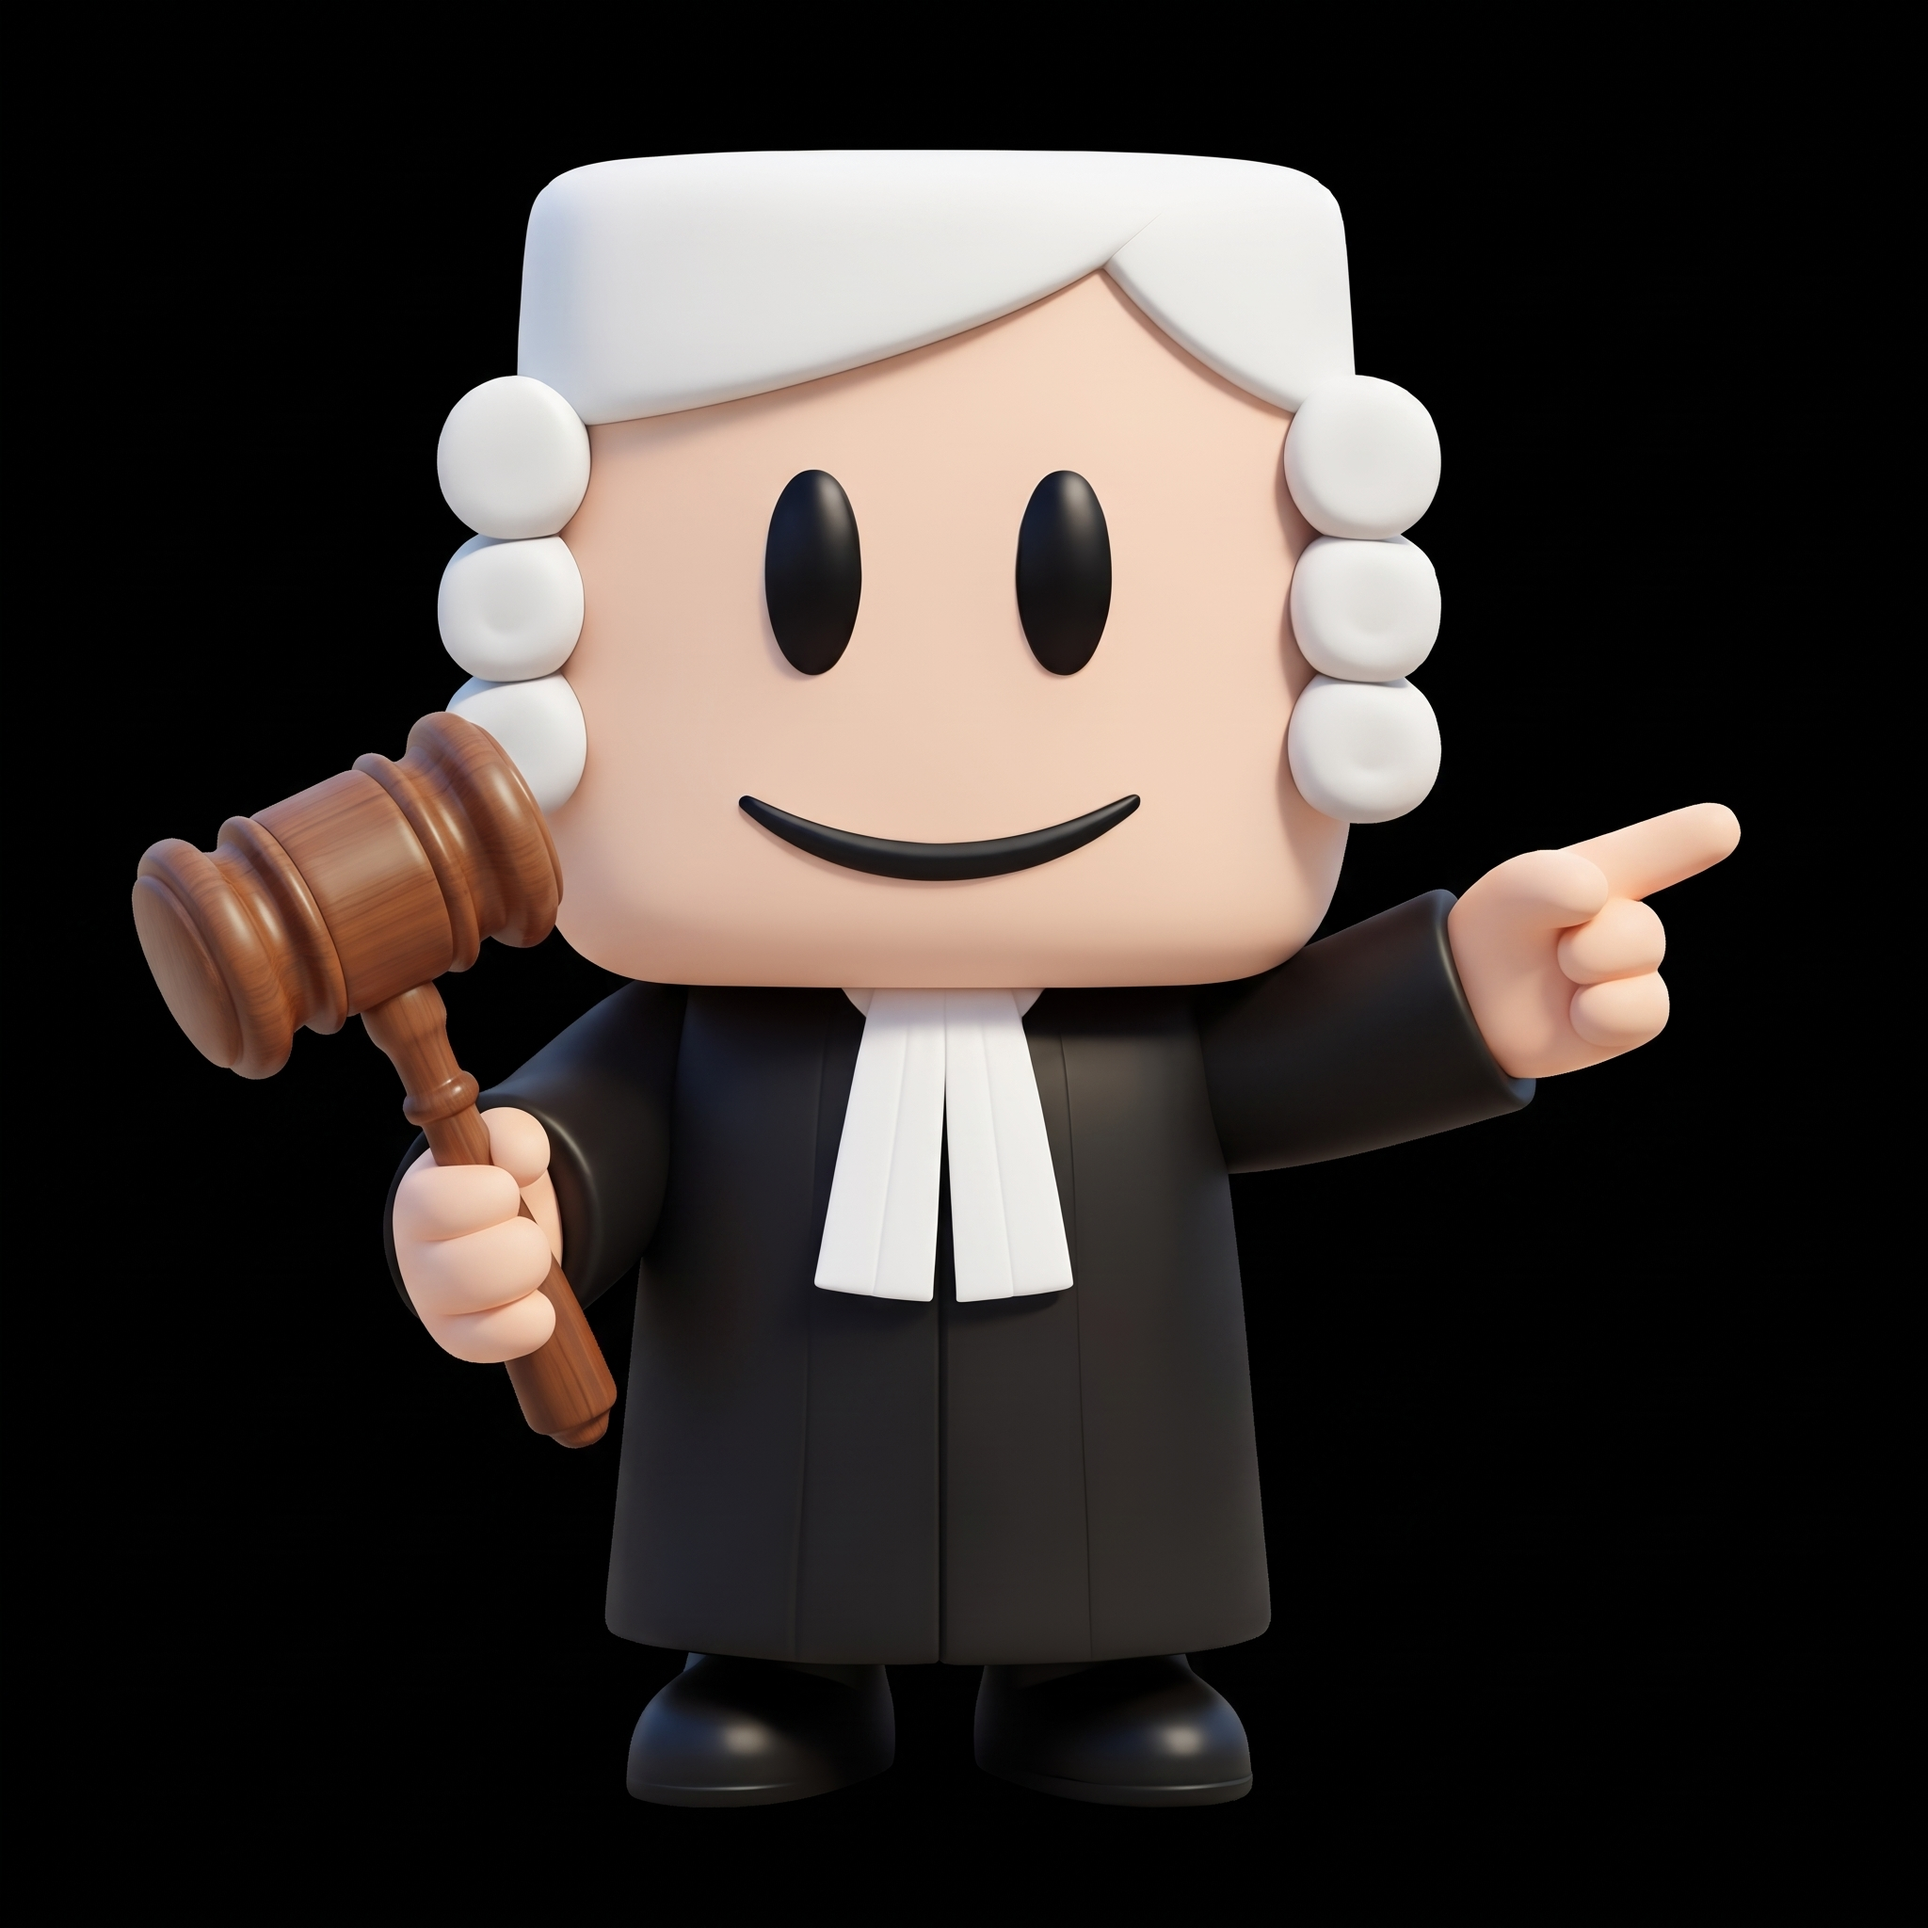
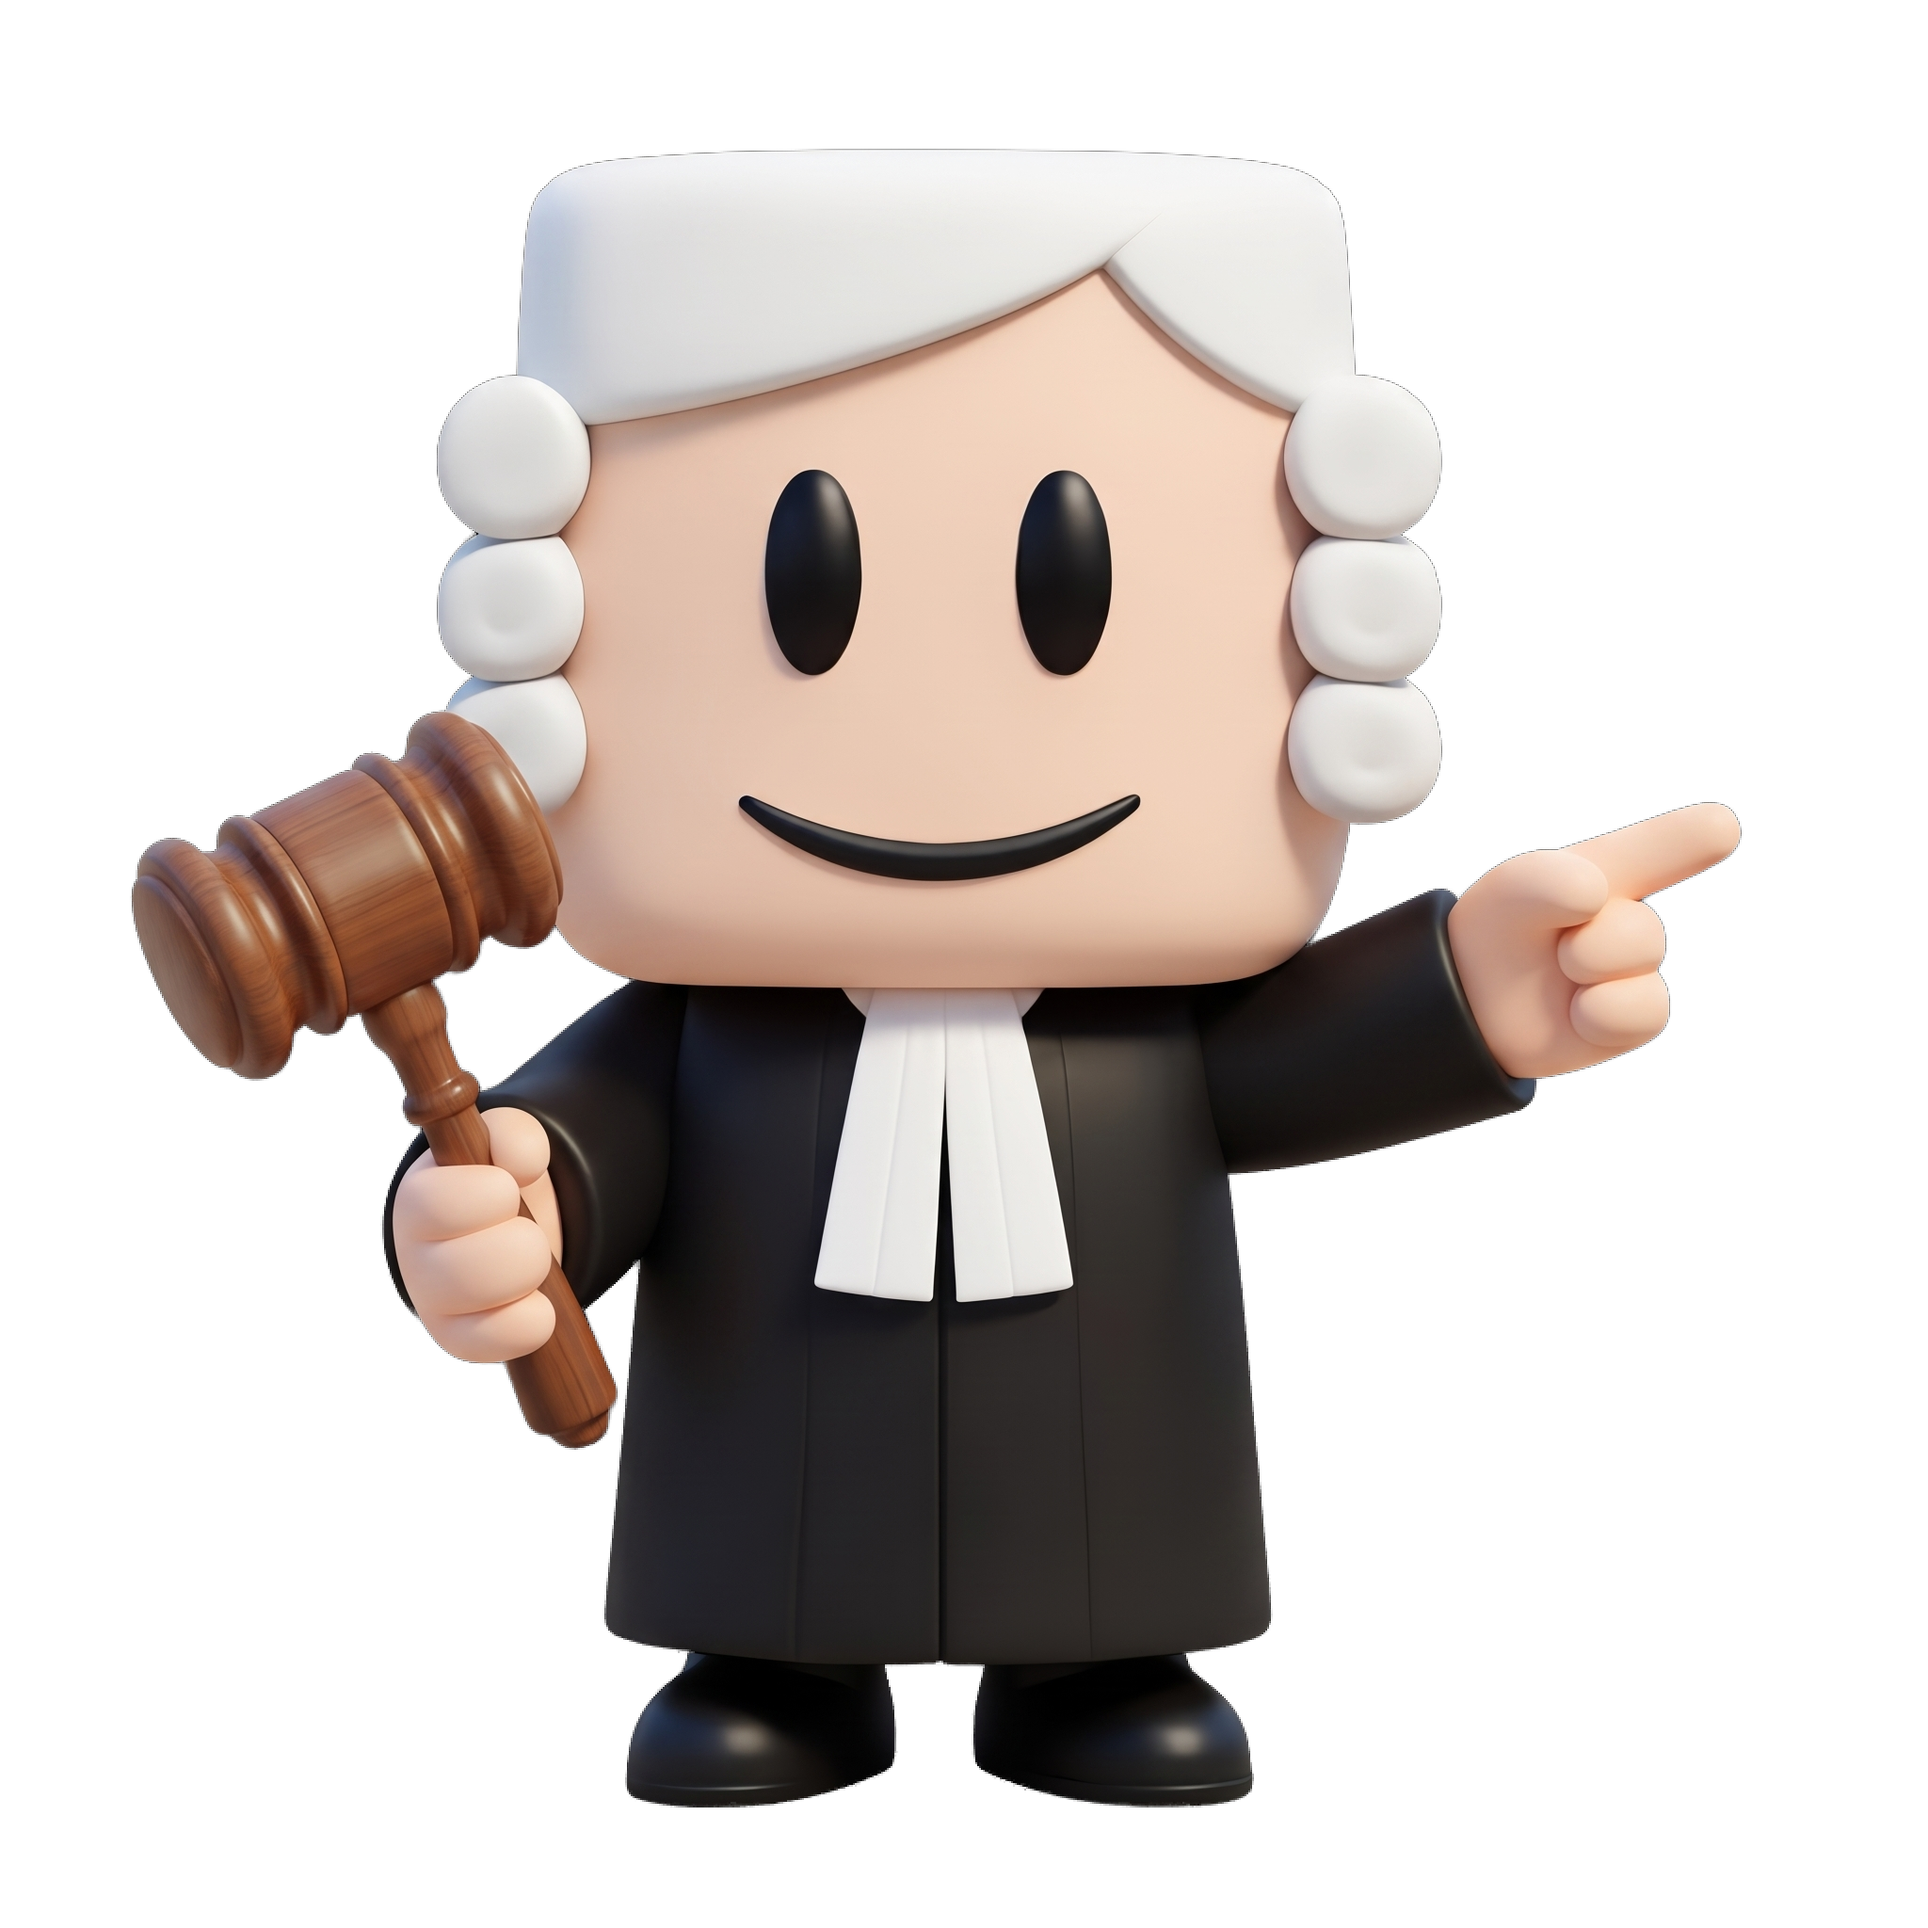
Improve exam sign in

diff --git a/components/live/LiveHome.tsx b/components/live/LiveHome.tsx
@@ -2,6 +2,7 @@
 
 import {
     CrownIcon,
+    DoorOpenIcon,
     EyeIcon,
     GraduationCapIcon,
     LogInIcon,
@@ -11,7 +12,7 @@ import {
 } from 'lucide-react'
 import Image from 'next/image'
 import { useRouter } from 'next/navigation'
-import { useEffect, useState } from 'react'
+import { type ReactNode, useEffect, useState } from 'react'
 
 import { LiveDashboard } from '@/components/live/LiveDashboard'
 import { ApiStatusCard } from '@/components/live/ApiStatusCard'
@@ -23,7 +24,7 @@ import SmoothButton from '@/components/smoothui/smooth-button'
 import { useAppearancePreferences } from '@/components/AppearancePreferencesProvider'
 import { useSiteMode } from '@/components/SiteModeProvider'
 import { Button } from '@/components/ui/button'
-import { Card, CardContent } from '@/components/ui/card'
+import { Card, CardContent, CardHeader, CardTitle } from '@/components/ui/card'
 import { Input } from '@/components/ui/input'
 import { Label } from '@/components/ui/label'
 import { Select, SelectContent, SelectItem, SelectTrigger, SelectValue } from '@/components/ui/select'
@@ -54,25 +55,15 @@ export function LiveHome() {
 }
 
 function ExamHome() {
+    const session = useLiveSession()
+    const inPreExam = session.phase === 'pre-exam'
+
     return (
-        <LivePage className="min-h-0 flex-1">
-            <div className="flex justify-center">
-                <Image
-                    alt="Exam on Jutge.org"
-                    className="h-auto w-96 max-w-full"
-                    height={384}
-                    priority
-                    src="/jutge/exam.png"
-                    width={384}
-                />
-            </div>
-            <Card className="w-full border border-border shadow-sm ring-0">
-                <CardContent className="flex justify-center p-5">
-                    <div className="flex w-full max-w-md flex-col gap-4">
-                        <LiveSignIn contest={false} polished className="w-full text-left" />
-                    </div>
-                </CardContent>
-            </Card>
+        <LivePage className={cn('min-h-0 flex-1', inPreExam && 'pt-24')}>
+            {inPreExam ? null : <LiveArenaHeroImage contest={false} />}
+            <LiveSignInCardShell contest={false} inPreExam={inPreExam}>
+                <LiveSignIn contest={false} polished className="w-full text-left" />
+            </LiveSignInCardShell>
             <ApiStatusCard className="mt-auto shrink-0" />
         </LivePage>
     )
@@ -80,21 +71,14 @@ function ExamHome() {
 
 function ContestHome() {
     const [tab, setTab] = useState<ContestTabId>('arena')
+    const session = useLiveSession()
+    const inPreExam = session.phase === 'pre-exam'
     const { reducedMotion } = useAppearancePreferences()
     const motionReduced = isMotionReduced(reducedMotion)
 
     return (
-        <LivePage className="min-h-0 flex-1">
-            <div className="flex justify-center">
-                <Image
-                    alt="Contest on Jutge.org"
-                    className={cn('h-auto w-96 max-w-full', !motionReduced && 'hover:animate-pulse')}
-                    height={384}
-                    priority
-                    src="/jutge/contest.png"
-                    width={384}
-                />
-            </div>
+        <LivePage className={cn('min-h-0 flex-1', inPreExam && 'pt-10')}>
+            {inPreExam ? null : <LiveArenaHeroImage contest motionReduced={motionReduced} />}
             <AnimatedTabs
                 activeTab={tab}
                 className="flex w-full"
@@ -110,13 +94,9 @@ function ContestHome() {
                 id={`${CONTEST_TABS_LAYOUT_ID}-panel-arena`}
                 role="tabpanel"
             >
-                <Card className="w-full border border-border shadow-sm ring-0">
-                    <CardContent className="flex justify-center p-5">
-                        <div className="flex w-full max-w-md flex-col gap-4">
-                            <LiveSignIn contest className="w-full text-left" />
-                        </div>
-                    </CardContent>
-                </Card>
+                <LiveSignInCardShell contest inPreExam={inPreExam}>
+                    <LiveSignIn contest className="w-full text-left" />
+                </LiveSignInCardShell>
             </div>
             <div
                 aria-labelledby={`${CONTEST_TABS_LAYOUT_ID}-tab-lounge`}
@@ -136,6 +116,73 @@ function ContestHome() {
     )
 }
 
+function LiveArenaHeroImage({
+    contest,
+    motionReduced = false,
+}: {
+    contest: boolean
+    motionReduced?: boolean
+}) {
+    return (
+        <div className="flex justify-center">
+            <Image
+                alt={contest ? 'Contest on Jutge.org' : 'Exam on Jutge.org'}
+                className={cn(
+                    'h-auto w-96 max-w-full',
+                    contest && !motionReduced && 'hover:animate-pulse',
+                )}
+                height={384}
+                priority
+                src={contest ? '/jutge/contest.png' : '/jutge/exam.png'}
+                width={384}
+            />
+        </div>
+    )
+}
+
+function LiveSignInCardShell({
+    contest,
+    inPreExam,
+    children,
+}: {
+    contest: boolean
+    inPreExam: boolean
+    children: ReactNode
+}) {
+    const card = (
+        <Card className="w-full border border-border shadow-sm ring-0">
+            {inPreExam ? (
+                <CardHeader className="border-b">
+                    <CardTitle className="w-full justify-center text-center">
+                        {contest ? 'Select contest' : 'Select exam'}
+                    </CardTitle>
+                </CardHeader>
+            ) : null}
+            <CardContent className="flex justify-center p-5">
+                <div className="flex w-full max-w-md flex-col gap-4">{children}</div>
+            </CardContent>
+        </Card>
+    )
+
+    if (!inPreExam) return card
+
+    return (
+        <div className="flex w-full flex-col items-center gap-6 md:flex-row md:items-start md:justify-center">
+            <div className="flex shrink-0 justify-center">
+                <Image
+                    alt="Select an exam or contest on Jutge.org"
+                    className="h-auto w-96 max-w-full"
+                    height={384}
+                    priority
+                    src="/jutge/select-exam.png"
+                    width={384}
+                />
+            </div>
+            <div className="w-full md:max-w-md">{card}</div>
+        </div>
+    )
+}
+
 function LiveSignIn({
     contest,
     polished = false,
@@ -146,6 +193,7 @@ function LiveSignIn({
     className?: string
 }) {
     const arenaStyle = contest || polished
+    const enterLabel = contest ? 'Enter contest' : 'Enter exam'
     const session = useLiveSession()
     const router = useRouter()
     const inPreExam = session.phase === 'pre-exam'
@@ -229,16 +277,21 @@ function LiveSignIn({
             >
                 <div className="flex flex-col gap-2">
                     {inPreExam ? (
-                        <p className="text-sm" id="live-greeting">
-                            Hello {session.name ?? email}{' '}
-                            <span className="inline-flex items-center gap-0.5 text-muted-foreground">
-                                ({email})
-                                <LiveAccountRoleIcons
-                                    administrator={session.administrator}
-                                    instructor={session.instructor}
-                                />
-                            </span>
-                        </p>
+                        <>
+                            <p className="text-sm" id="live-greeting">
+                                Welcome&nbsp;
+                                <span className="font-bold">{session.name ?? email}</span>.
+                                <span className="inline-flex items-center gap-0.5 text-muted-foreground">
+                                    <LiveAccountRoleIcons
+                                        administrator={session.administrator}
+                                        instructor={session.instructor}
+                                    />
+                                </span>
+                            </p>
+                            <p className="text-sm" id="live-greeting">
+                                Select your exam and enter its password.
+                            </p>
+                        </>
                     ) : (
                         <>
                             <Label htmlFor="live-email">Email</Label>
@@ -270,7 +323,7 @@ function LiveSignIn({
                 ) : null}
                 {inPreExam && readyExams ? (
                     <>
-                        <div className="flex flex-col gap-2">
+                        <div className="mt-2 flex flex-col gap-2">
                             <div className="relative pr-8">
                                 <Label htmlFor="live-exam">
                                     {contest ? 'Contest' : 'Exam'}
@@ -321,7 +374,8 @@ function LiveSignIn({
                 >
                     {arenaStyle ? (
                         <SmoothButton
-                            className="w-full"
+                            aria-label={inPreExam ? enterLabel : 'Sign in'}
+                            className="w-full mt-2 mb-2"
                             color="blue"
                             loading={pending}
                             type="submit"
@@ -329,8 +383,8 @@ function LiveSignIn({
                         >
                             {inPreExam ? (
                                 <>
-                                    <LogInIcon aria-hidden className="size-4" />
-                                    {contest ? 'Enter contest' : 'Enter exam'}
+                                    <DoorOpenIcon aria-hidden className="size-5" />
+                                    {enterLabel}
                                 </>
                             ) : (
                                 <>
@@ -340,14 +394,16 @@ function LiveSignIn({
                             )}
                         </SmoothButton>
                     ) : (
-                        <Button className={inPreExam ? 'w-full' : undefined} type="submit" disabled={pending}>
+                        <Button
+                            aria-label={inPreExam ? enterLabel : undefined}
+                            className={inPreExam ? 'w-full' : undefined}
+                            type="submit"
+                            disabled={pending}
+                        >
                             {pending ? (
                                 'Please wait…'
                             ) : inPreExam ? (
-                                <>
-                                    <LogInIcon aria-hidden className="size-4" />
-                                    {contest ? 'Enter contest' : 'Enter exam'}
-                                </>
+                                <DoorOpenIcon aria-hidden className="size-5" />
                             ) : (
                                 <>
                                     <LogInIcon aria-hidden className="size-4" />
@@ -359,8 +415,8 @@ function LiveSignIn({
                     {inPreExam ? (
                         arenaStyle ? (
                             <SmoothButton
-                                className="w-full"
-                                color="blue"
+                                className="w-full mb-2"
+                                color="destructive"
                                 disabled={pending}
                                 type="button"
                                 variant="candy"
